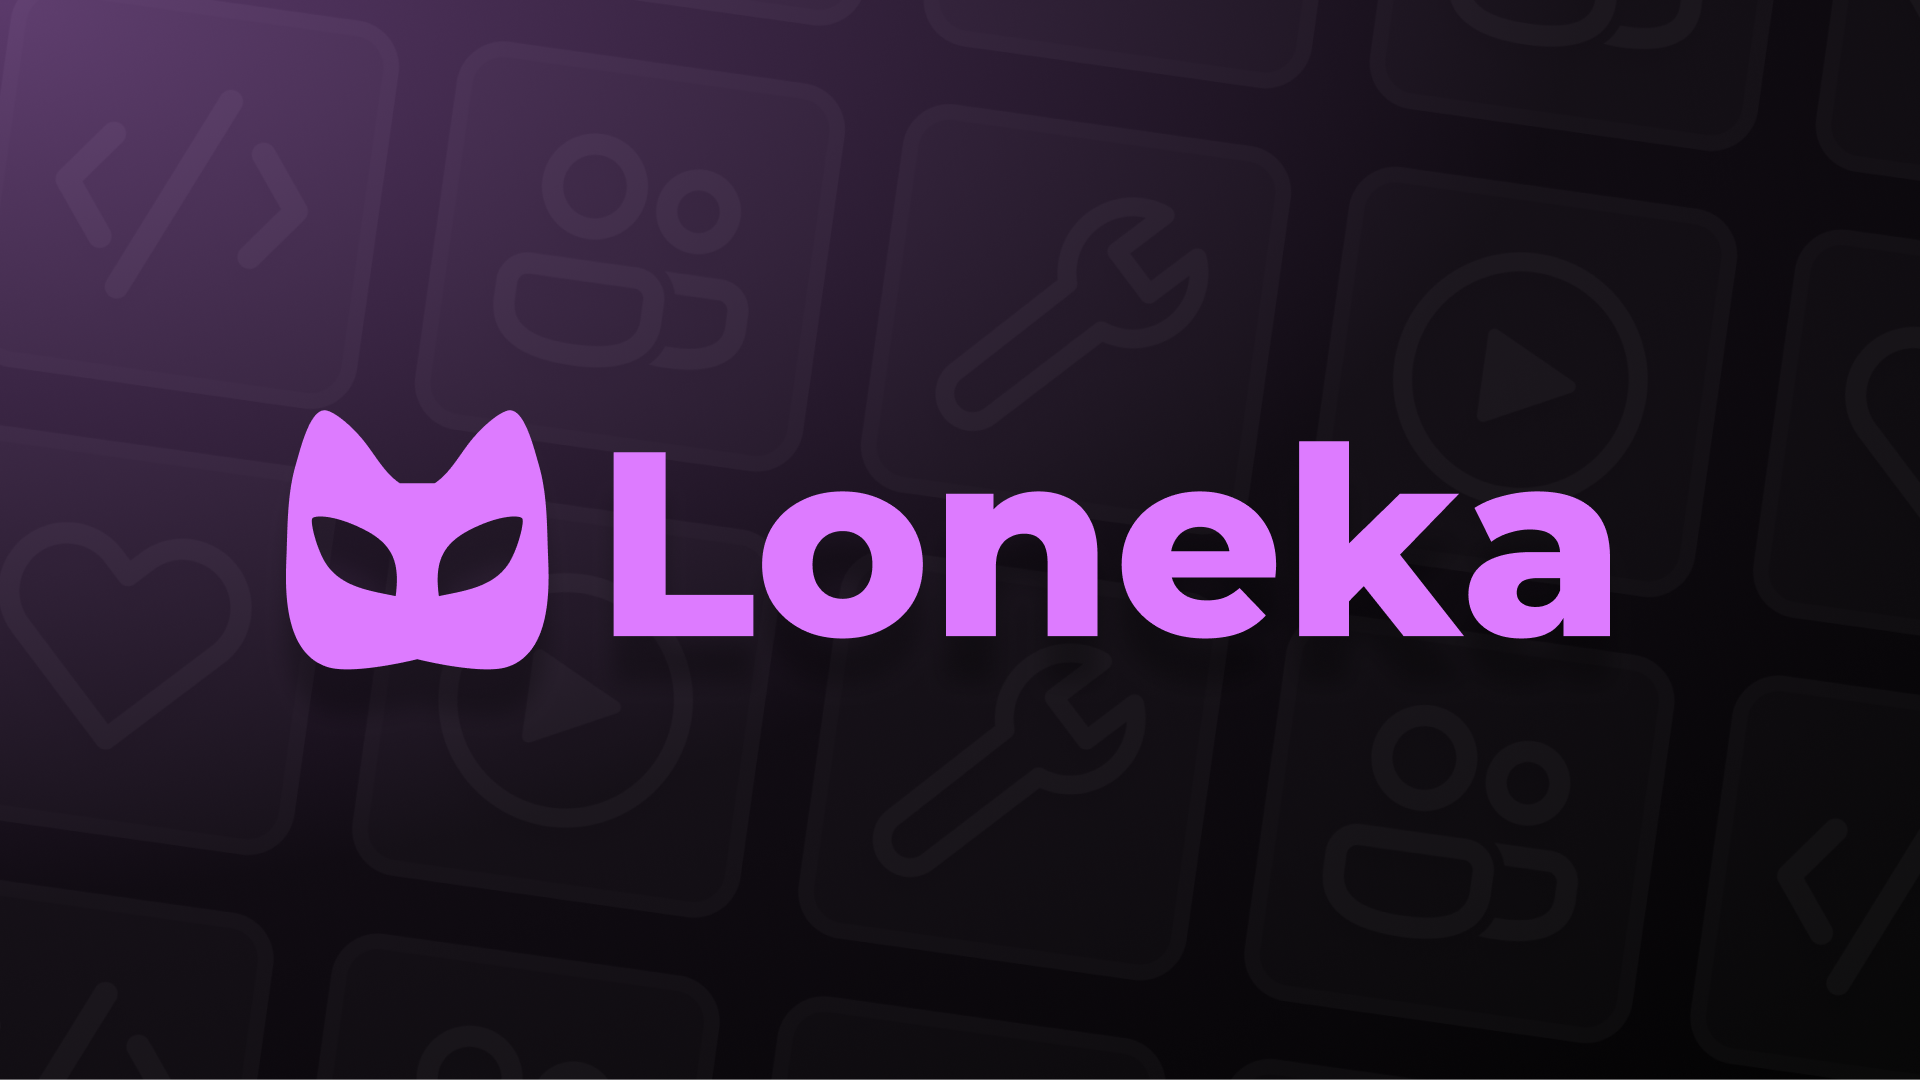
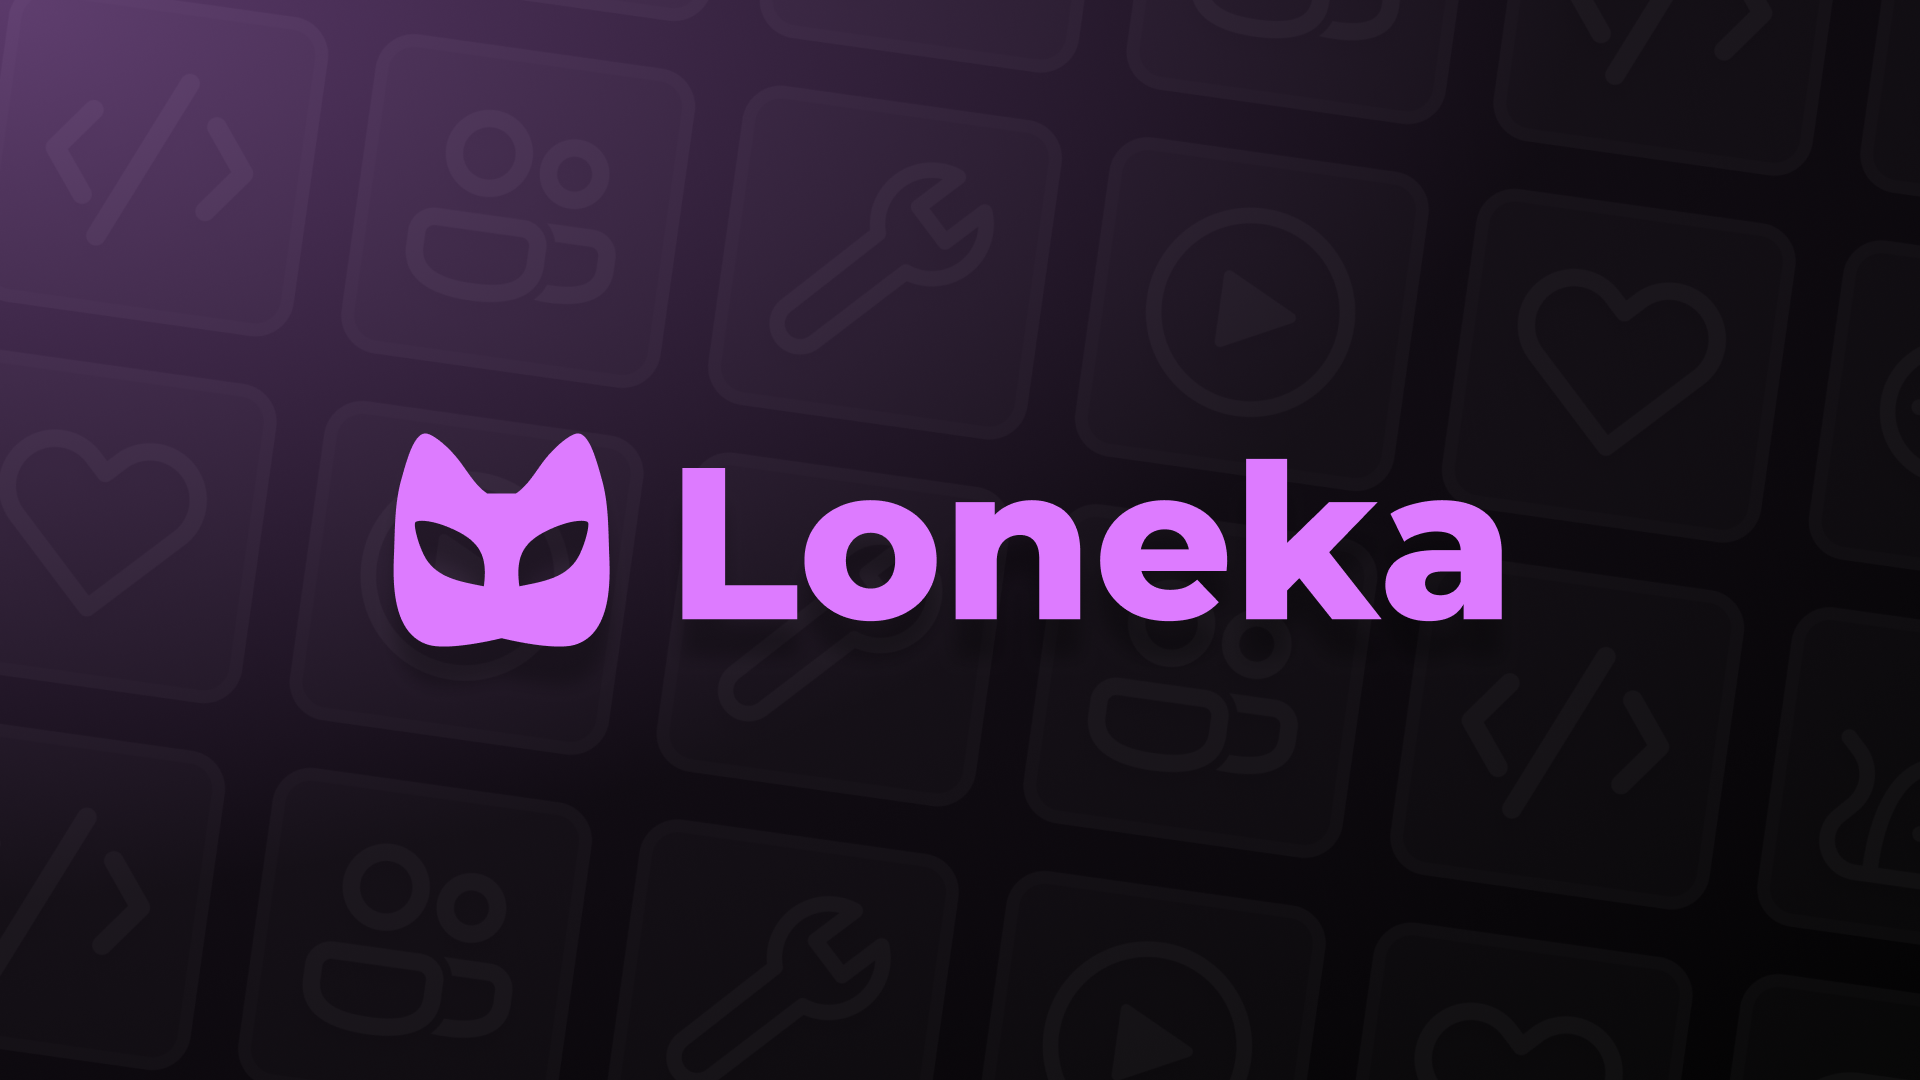
Add Loneka Suite

Changed region(s): [[0.125, 0.3667, 0.8438, 0.6417]]

diff --git a/src/lib/data/projects.ts b/src/lib/data/projects.ts
@@ -34,21 +34,9 @@ import MoonletsBanner from '$lib/img/projects/Moonlets.png';
 import SayHey2MeBanner from '$lib/img/projects/SayHey2Me.png';
 import FirefightBanner from '$lib/img/projects/Firefight.png';
 import LonekaRooms from '$lib/img/projects/LonekaRooms.png';
+import LonekaSuite from '$lib/img/projects/LonekaSuite.png';
 
 export const projects: Project[] = [
-	{
-		id: 'Rorooms',
-		displayName: 'Rorooms',
-		type: 'resource',
-		platform: 'website',
-		href: 'https://Rorooms.com',
-		creationStamp: 1730832374,
-		bannerSrc: RoroomsBanner,
-		role: 'Sole Developer',
-		displayType: 'Platform',
-		description:
-			'An all-in-one framework providing worlds with social features and peer-to-peer networking, with the goal of enhancing and uplifting the social genre on Roblox.'
-	},
 	{
 		id: 'Loneka',
 		displayName: 'Loneka',
@@ -60,7 +48,7 @@ export const projects: Project[] = [
 		role: 'Sole Developer',
 		displayType: 'Studio',
 		description:
-			"A solo studio with the goal of creating engaging social games. While the team of 1 (hi) has stayed small, I'm proud of what I've been able to produce, and the community that has grown around it.",
+			"A solo studio creating engaging social games. While the team of 1 (hi) has stayed small, I'm proud of what's been produced, and the community that's grown around it.",
 		metrics: [
 			{
 				name: 'Plays',
@@ -73,6 +61,25 @@ export const projects: Project[] = [
 			{
 				name: 'Members',
 				value: '100K'
+			}
+		]
+	},
+	{
+		id: 'LonekaSuite',
+		displayName: 'Loneka Suite',
+		type: 'other',
+		platform: 'website',
+		href: 'https://suite.loneka.com',
+		creationStamp: 1744213216,
+		bannerSrc: LonekaSuite,
+		role: 'Sole Developer',
+		displayType: 'Branch',
+		description:
+			'A suite of tools accelerating game development. Focused on design, patterns, and developer experience, its software is loved by creators big and small.',
+		metrics: [
+			{
+				name: 'New Devs / Month',
+				value: '343'
 			}
 		]
 	},
@@ -103,6 +110,19 @@ export const projects: Project[] = [
 		]
 	},
 	{
+		id: 'Rorooms',
+		displayName: 'Rorooms',
+		type: 'resource',
+		platform: 'website',
+		href: 'https://Rorooms.com',
+		creationStamp: 1730832374,
+		bannerSrc: RoroomsBanner,
+		role: 'Sole Developer',
+		displayType: 'Platform',
+		description:
+			'An all-in-one framework providing worlds with social features and peer-to-peer networking, with the goal of enhancing and uplifting the social genre on Roblox.'
+	},
+	{
 		id: 'OnyxUI',
 		displayName: 'OnyxUI',
 		type: 'resource',
@@ -126,7 +146,7 @@ export const projects: Project[] = [
 		role: 'Sole Developer',
 		displayType: 'Software',
 		description:
-			"Frustrated with Roblox's aged default hotbar, I made my own prioritizing accessibility and customizability. It has since been used across the platform."
+			"A replacement for Roblox's aged default hotbar, NeoHotbar prioritizes accessibility and customizability, improving upon where Roblox left off. It's used across the platform."
 	},
 	{
 		id: 'Avalog',

diff --git a/src/lib/components/Metric.svelte b/src/lib/components/Metric.svelte
@@ -3,7 +3,7 @@
   export let value: String = "0"
 </script>
 
-<span class="flex flex-col items-center">
+<span class="flex flex-col items-center space-y-1">
   <p class="font-bold text-3xl">{value}</p>
-  <p class="text-lg">{name}</p>
+  <p class="text-lg/6 text-wrap text-center">{name}</p>
 </span>
